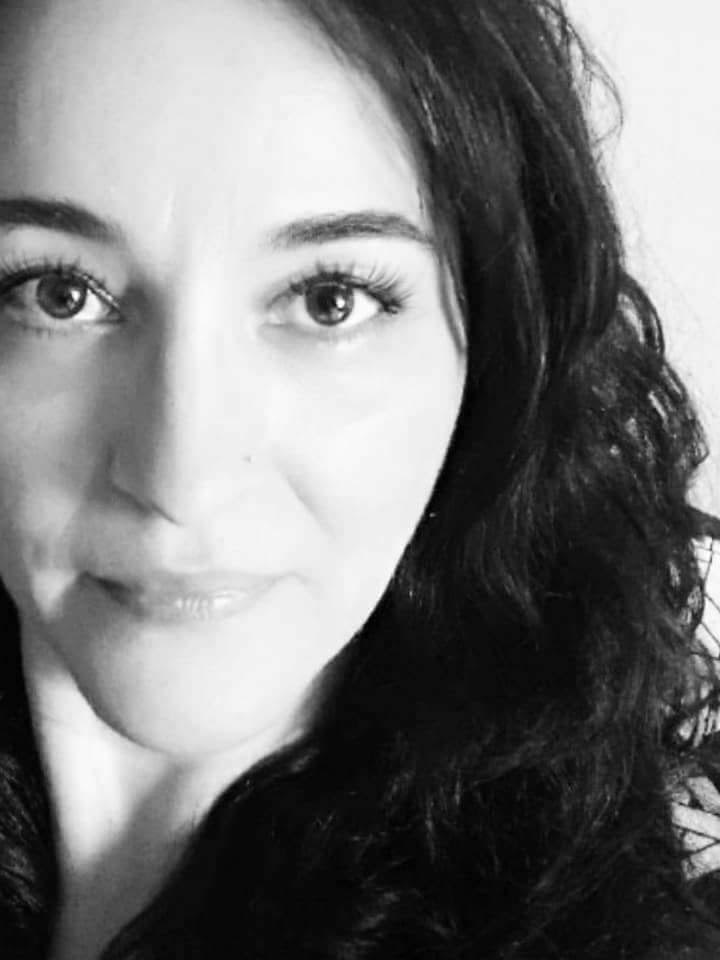
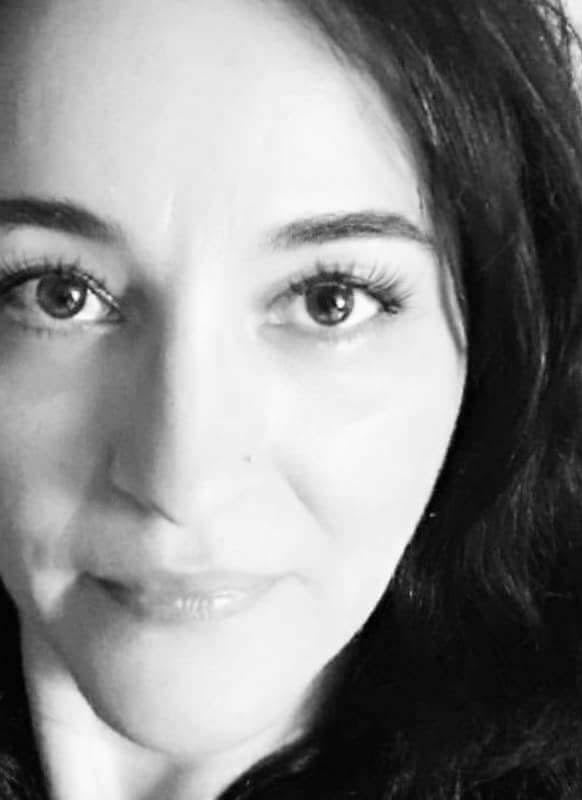
atualização projeto

diff --git a/producoes.html b/producoes.html
@@ -32,9 +32,6 @@
             <a href="salaroterista.html" data-transition="flip">SALA DE ROTEIRISTAS</a>
           </li>
           <li>
-            <a href="laboratorio.html" data-transition="flip"="">LABORATÓRIO DE CINEMA</a>
-          </li>
-          <li>
             <a href="producoes.html" data-transition="flip"="">PRODUÇÕES</a>
           </li>
         </ul>
@@ -44,7 +41,16 @@
   </header>
 
   <section id="producoes">
-     <img class="logo" src="img/PAGINA PRODUÇÕES.jpg" alt="Logo site">
+    <img class="logo" src="img/PAGINA PRODUÇÕES.jpg" alt="Logo site">
+    <p>
+      “Sinal Vermelho” mostra a vida de Messias, um homem que se tornou Delegado da Polícia Federal para agradar o seu pai, também
+      policial. Cresceu fazendo todas as vontades dele, sob uma educação quase espartana, reprimindo seus desejos. Mas no
+      auge dos 30 anos, sua verdadeira identidade se rebela. Ele conhece Luís casualmente e se apaixona por ele. Ambos estão
+      exaustos com seus trabalhos e resolvem não revelar suas profissões por um tempo. Eles vivenciam um romance escondido
+      de todos. Porém, chega o dia de Messias flagrar uma facção criminosa. Em meio a operação, Messias descobre que Luís,
+      o amor de sua vida, é um dos traficantes que precisa prender. Essa descoberta transforma a vida dos amantes como nunca
+      poderiam imaginar.<br>
+      Gênero Drama / Ação / Romance.</p>
   </section>
 
   <footer>

diff --git a/salaroterista.html b/salaroterista.html
@@ -40,9 +40,23 @@
   </header>
 
   <section id="pessoas">
-    <img src="img/Cristiane .jpg" alt="">
-    <img src="img/Anderson .jpg" alt="">
-    <img src="img/Patricia.jpg" alt="">
+    <div class="cris">
+      <img src="img/Cristiane .jpg" alt="Foto Cristiane">
+      <p>Cristiane Vilarinho, Com formação em Letras e Literatura, escolhi escrever roteiro para que as estórias que surgem
+        em minha mente ganhem imagens e meus personagens ganhem vida. Para que meu mundo imaginário ganhe outros mundos.</p>
+    </div>
+    <div class="anderson">
+      <img src="img/Anderson .jpg" alt="Foto Anderson">
+      <p>Anderson Cleiton Com formação em Cinema e Audiovisual e Pós-Graduação em Cinema e Linguagem Audiovisual, resolvi escrever
+        roteiros porque tem a ver com o que sinto, com o que vejo, com o que quero mostrar. É compartilhar minha imaginação.</p>
+    </div>
+    <div class="patricia">
+      <img src="img/Patricia.jpg" alt="Foto Patricia">
+      <p>Patrícia Chaves Com graduação em Cinema e Audiovisual e Técnico em Artes Cênicas, não saberia fazer outra coisa senão
+        produzir arte e escrever estórias. Criar personagens e seus conflitos, aprofundar-me na alma humana e revelar os
+        seus mistérios é umas das coisas que mais me fascina na arte de escrever.
+      </p>
+    </div>
   </section>
 
   <footer>

diff --git a/css/style.css b/css/style.css
@@ -2,6 +2,7 @@
 * {
     list-style: none;
     text-decoration: none;
+    
 }
 
 a {
@@ -109,19 +110,41 @@ sobreroteiro h1{
 /*css sala de roteiristas*/
 #pessoas{
     display: flex;
-    padding: 125px;
+    flex-direction: row;
+    padding: 80px;
 }
 #pessoas img {
-    width: 300px;
-    height: 300px;
+    width: 200px;
+    height: 200px;
+    padding: 80px;
+    text-align: center;
+}
+#pessoas p {
+    padding: 30px;
+}
+.cris{
+    display: flex;
+    flex-direction: column;
+    text-align: center;
+}
+.anderson{
+    display: flex;
+    flex-direction: column;
+    text-align: center;
+}
+.patricia{
+    display: flex;
+    flex-direction: column;
+    text-align: center;
 }
 /*css produções*/
 #producoes{
     display: flex;
-    padding: 125px;
     flex-direction: column;
     text-align: center ;
     align-items: center;
+    margin: 40px;
+    
 }
 #producoes img{
     width: 30%;
@@ -134,7 +157,8 @@ footer {
     text-transform: uppercase;
     display: flex;
     justify-content: space-around; 
-    margin: -16px; 
+   
+   
 }
 footer ul {
     display: flex;

diff --git a/index.html b/index.html
@@ -11,6 +11,7 @@
     <script src="https://code.jquery.com/jquery-1.11.3.min.js"></script>
     <script src="https://code.jquery.com/mobile/1.4.5/jquery.mobile-1.4.5.min.js"></script>
     <link rel="stylesheet" href="css/style.css">
+    <link rel="stylesheet" href="css/main.css">
 </head>
 
 <body>
@@ -57,7 +58,7 @@
     </section>
 
     <section id="video">
-        <h1>Video demo um pouco do nossos trabalhos realizados</h1>
+        <h1>Conheça nosso trabalho:</h1>
         <div class="video1">
             <iframe src="https://www.youtube.com/embed/fVlgYKDZcjc" frameborder="0" allow="autoplay; encrypted-media" allowfullscreen></iframe>
         <div>

diff --git a/css/main.css b/css/main.css
@@ -1,0 +1,12 @@
+@media  (max-width: 768px){
+ nav {
+    display: flex;
+    margin:-16px;
+ }   
+ .logo{
+    width: 110px;
+ }
+ nav ul{
+     padding: 5px;
+ }
+}
